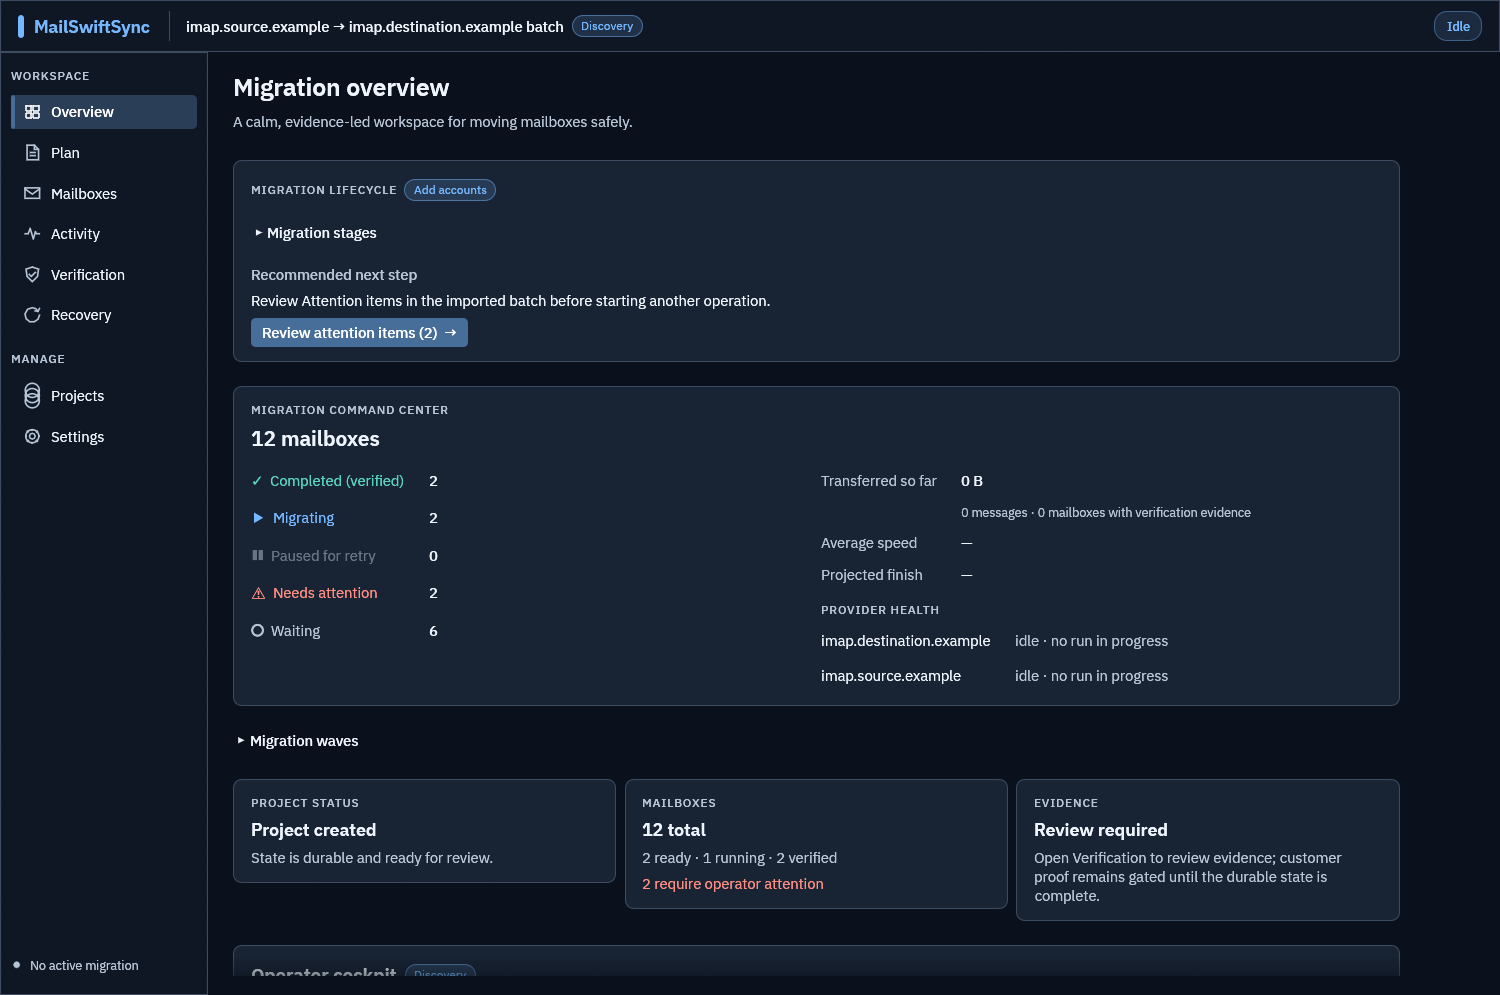
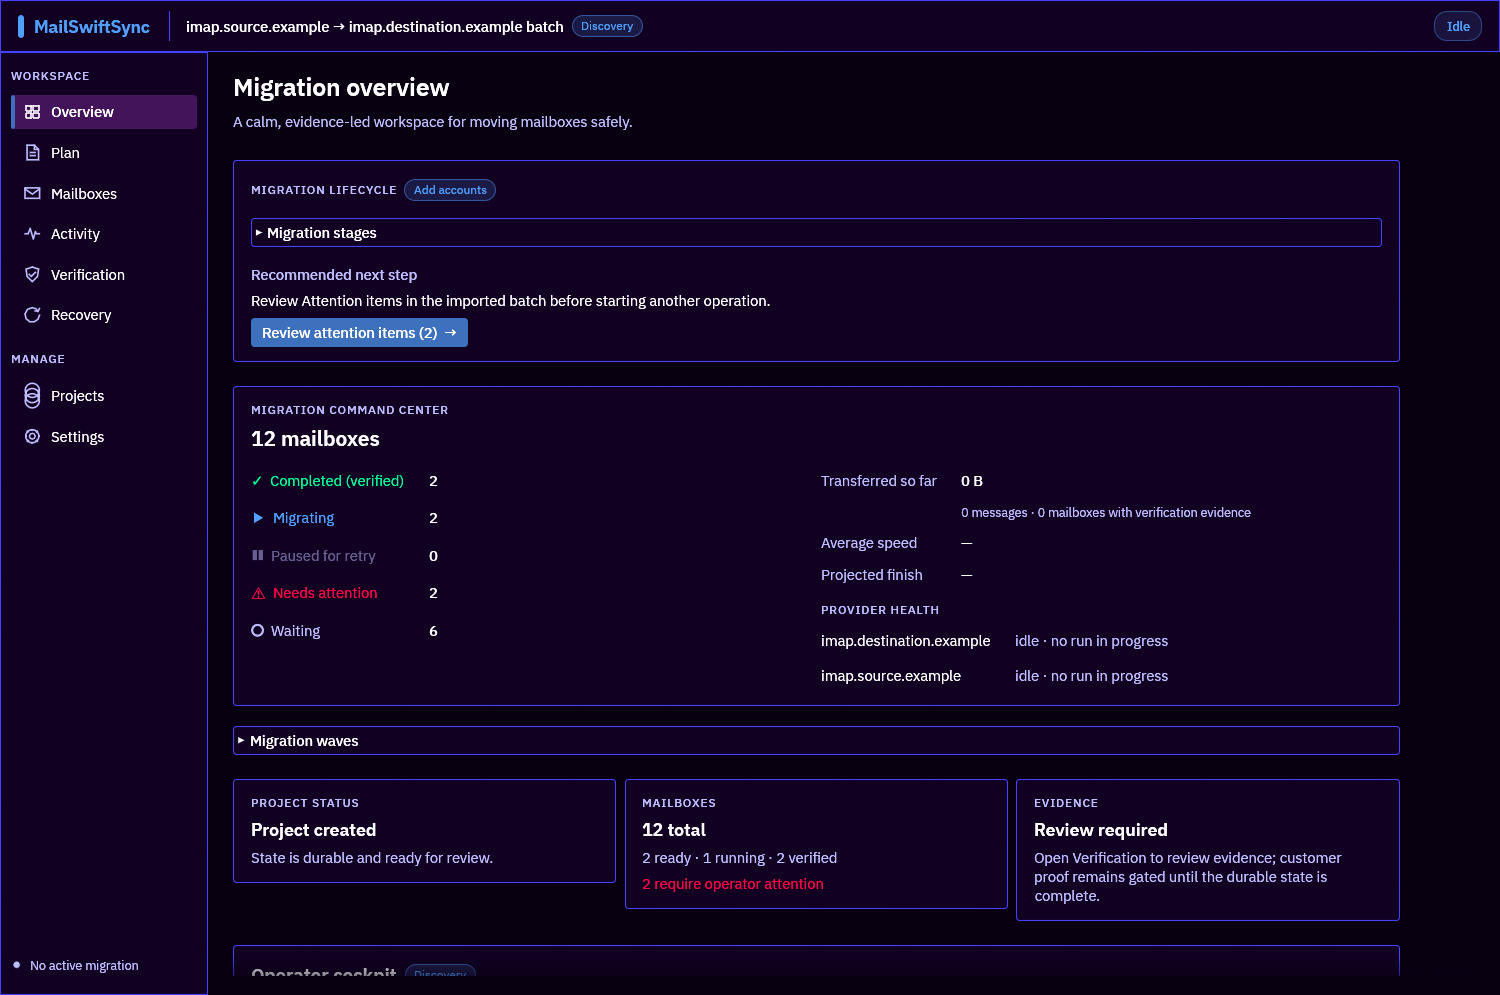
Clarify pilot scope and refresh retro README previews (#204)
* Narrow capability manifest pilot guidance

* Refresh README previews with retro neon theme

* Test provider qualification warning on plan page

diff --git a/src/ui/accessibility_audit.rs b/src/ui/accessibility_audit.rs
@@ -449,6 +449,29 @@ fn confirmation_dialogs_are_named_start_safe_and_keep_focus_inside() {
 }
 
 #[test]
+fn plan_page_exposes_provider_qualification_before_execution_controls() {
+    let mut harness = Harness::new(1.0, false);
+    harness.app.active_view = WorkspaceView::Plan;
+    harness.app.source_provider = crate::provider::ProviderPreset::CpanelDovecot;
+    harness.app.destination_provider = crate::provider::ProviderPreset::CpanelDovecot;
+
+    let nodes = harness.tree();
+    let text = nodes
+        .values()
+        .filter_map(|node| node.label().or_else(|| node.value()))
+        .collect::<Vec<_>>()
+        .join("\n");
+    assert!(
+        text.contains("Provider path: cPanel/Dovecot → cPanel/Dovecot — NOT PRODUCTION-QUALIFIED"),
+        "Plan page must expose the selected provider-pair qualification state:\n{text}"
+    );
+    assert!(
+        text.contains("This route has not completed the live provider qualification suite."),
+        "Plan page must distinguish provider qualification from generic support:\n{text}"
+    );
+}
+
+#[test]
 fn live_migration_confirmation_exposes_provider_qualification_boundary() {
     let mut harness = Harness::new(1.0, false);
     harness.app.source_provider = crate::provider::ProviderPreset::CpanelDovecot;

diff --git a/scripts/capture-ui-previews.py b/scripts/capture-ui-previews.py
@@ -15,6 +15,19 @@ import subprocess
 import tempfile
 import time
 
+THEME_NAMES = (
+    "Default",
+    "ClassicGreen",
+    "ClassicAmber",
+    "ClassicWhite",
+    "Retro80sNeon",
+    "HighContrast",
+    "TerminalBlue",
+    "Commodore64",
+    "Windows95",
+    "Windows31",
+)
+
 
 def own_window(pid: int) -> str | None:
     tree = subprocess.check_output(["xwininfo", "-root", "-tree"], text=True, timeout=5)
@@ -32,7 +45,12 @@ def main() -> None:
     parser.add_argument("--binary", type=Path, default=Path("target/debug/mailswiftsync"))
     parser.add_argument("--output", type=Path, default=Path("docs/wiki/assets"))
     parser.add_argument("--window", default="1440x1000", help="Preview size, e.g. 900x640")
-    parser.add_argument("--theme", default="Default", help="Theme name as stored in appearance.toml, e.g. HighContrast")
+    parser.add_argument(
+        "--theme",
+        default="Default",
+        choices=THEME_NAMES,
+        help="Theme enum name as stored in appearance.toml (for example Retro80sNeon)",
+    )
     parser.add_argument("--light", action="store_true", help="Capture the light variant")
     args = parser.parse_args()
     for program in ("xwininfo", "xprop", "import"):

diff --git a/README.md b/README.md
@@ -8,9 +8,9 @@
 [![License: MIT](https://img.shields.io/badge/license-MIT-blue.svg)](LICENSE)
 [![Rust](https://img.shields.io/badge/built%20with-Rust-orange.svg)](https://www.rust-lang.org/)
 
-![Migration plan — Default dark theme](docs/wiki/assets/migration-plan.png)
+![Migration plan — Retro 80s Neon theme](docs/wiki/assets/migration-plan.png)
 
-> Screenshots show the running desktop application in the Default dark theme, using synthetic demo data and an isolated workspace.
+> Screenshots show the running desktop application in the Retro 80s Neon theme, using synthetic demo data and an isolated workspace.
 
 <details>
 <summary>Overview and verification workspace</summary>
@@ -22,7 +22,7 @@
 </details>
 
 To refresh these images on an X11/XWayland desktop, run `cargo build --locked`
-followed by `python3 scripts/capture-ui-previews.py`. The capture script uses
+followed by `python3 scripts/capture-ui-previews.py --theme Retro80sNeon`. The capture script uses
 temporary state and configuration; it requires `xwininfo`, `xprop`, and
 ImageMagick's `import` command.
 
@@ -569,7 +569,7 @@ restoring an earlier verified backup returns the ledger to normal operation.
 It does not cover the transfer engine itself running out of destination
 storage.
 
-![Mailboxes workspace — Default dark theme](docs/wiki/assets/batch-queue.png)
+![Mailboxes workspace — Retro 80s Neon theme](docs/wiki/assets/batch-queue.png)
 
 The on-screen **Activity** log is intentionally capped at 10,000 lines for desktop stability; the structured durable event ledger remains the longer-lived audit record. Raw engine transcripts stay process-local and are not written to SQLite.
 

diff --git a/CAPABILITY_MANIFEST.md b/CAPABILITY_MANIFEST.md
@@ -254,7 +254,7 @@ particular target.
 - Technical previews on non-critical mailboxes
 - Testing provider connectivity and configuration
 - Validating IMAP transfer mechanics
-- Early adoption with careful operator oversight
+- Supervised pilots using disposable or fully backed-up, non-critical mailboxes with an independent recovery plan
 
 **Not yet ready for:**
 - Unattended migrations (no external scheduler/recovery approval and provider quotas remain unqualified)
